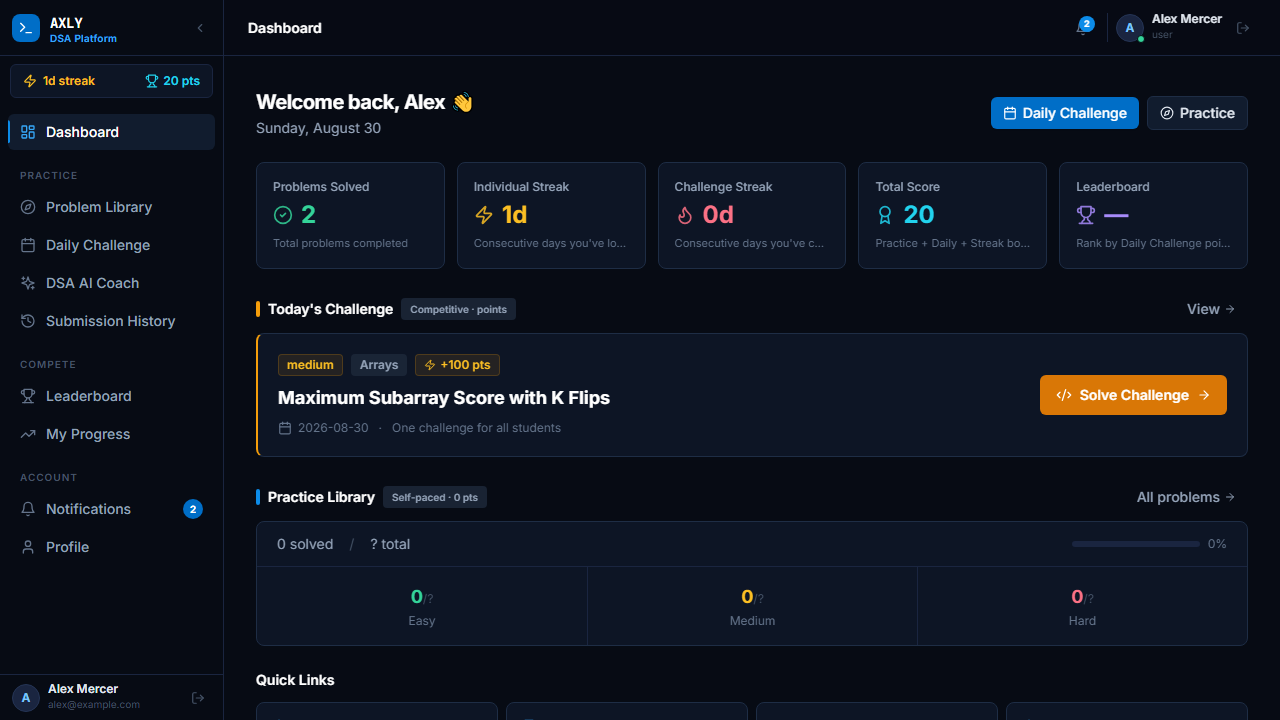
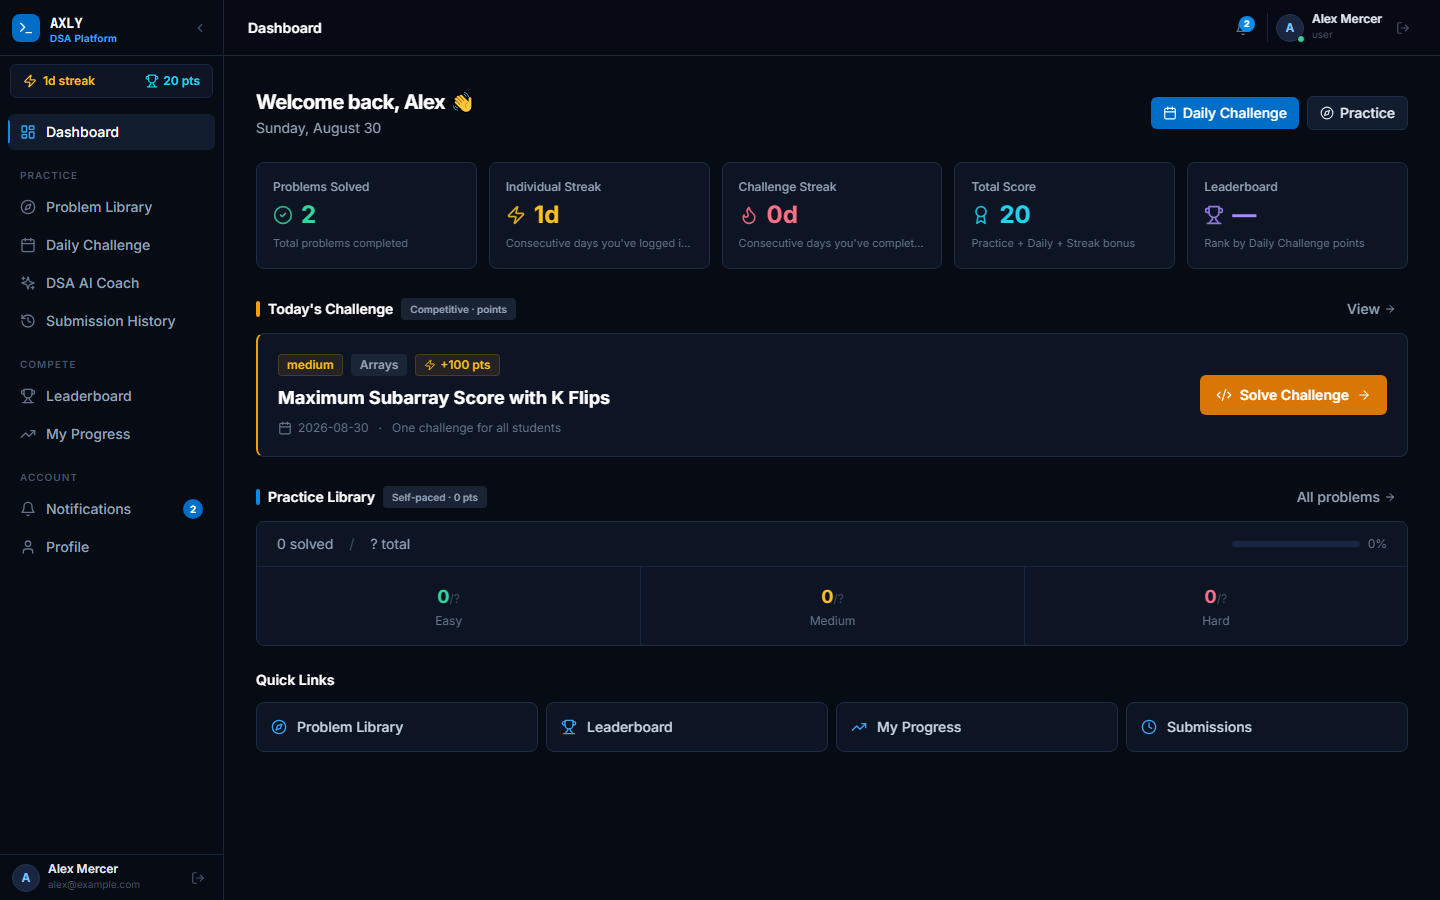
docs: production-ready README + UI screenshots

diff --git a/tests/e2e/capture_screenshots.spec.js b/tests/e2e/capture_screenshots.spec.js
@@ -22,89 +22,91 @@ test.describe('Take README Screenshots', () => {
     }, body.token);
   }
 
-  test('Capture Dashboard', async ({ page }) => {
+  async function loginAsAdmin(page) {
+    const res = await page.request.post('http://localhost:5000/api/v1/auth/dev-login', {
+      data: { email: 'admin@axly.in', role: 'admin' }
+    });
+    const body = await res.json();
+    await page.goto('/');
+    await page.evaluate((token) => {
+      localStorage.setItem('axly_auth_token', token);
+    }, body.token);
+  }
+
+  test.use({ viewport: { width: 1440, height: 900 } });
+
+  test('Capture Landing/Login Page', async ({ page }) => {
+    await page.goto('/login');
+    await page.waitForLoadState('networkidle');
+    await page.waitForTimeout(1000);
+    await page.screenshot({ path: path.join(screenshotsDir, 'landing.png') });
+  });
+
+  test('Capture Learner Dashboard', async ({ page }) => {
     await loginAsStudent(page);
     await page.goto('/');
     await page.waitForLoadState('networkidle');
-    await page.waitForTimeout(1000); 
+    await page.waitForTimeout(1000);
     await page.screenshot({ path: path.join(screenshotsDir, 'dashboard.png') });
   });
 
-  test('Capture Practice Library', async ({ page }) => {
-    await loginAsStudent(page);
-    await page.goto('/');
-    await page.click('text=Practice');
-    await page.waitForLoadState('networkidle');
-    await page.waitForTimeout(1000);
-    await page.screenshot({ path: path.join(screenshotsDir, 'practice.png') });
-  });
-
-  test('Capture Problem Workspace + AI', async ({ page }) => {
+  test('Capture Question Bank (Practice List)', async ({ page }) => {
     await loginAsStudent(page);
     await page.goto('/');
     await page.click('text=Practice');
     await page.waitForLoadState('networkidle');
     await page.waitForTimeout(1000);
     
-    // Click the first problem card button
-    const firstProblemBtn = page.locator('.practice-card button').first();
-    await firstProblemBtn.click();
-    
-    await page.waitForLoadState('networkidle');
-    await page.waitForTimeout(2000); 
-    
-    // Open AI Coach Panel if not already visible/active
-    try {
-      await page.click('text=DSA AI Coach');
-      await page.waitForTimeout(1000);
-    } catch (e) {}
-
-    await page.screenshot({ path: path.join(screenshotsDir, 'dsa-ai.png') });
+    // Select a filter to make it visible
+    const difficultySelect = page.locator('.practice-filters select').nth(0);
+    if (await difficultySelect.count() > 0) {
+       await difficultySelect.selectOption('Medium');
+       await page.waitForTimeout(500);
+    }
+    await page.screenshot({ path: path.join(screenshotsDir, 'question-bank.png') });
   });
 
-  test('Capture Problem Workspace', async ({ page }) => {
+  test('Capture Question Detail (Code Editor)', async ({ page }) => {
     await loginAsStudent(page);
     await page.goto('/');
     await page.click('text=Practice');
     await page.waitForLoadState('networkidle');
-    
-    const firstProblemBtn = page.locator('.practice-card button').first();
-    await firstProblemBtn.click();
-    
-    await page.waitForLoadState('networkidle');
-    await page.waitForTimeout(2000); 
-
-    await page.screenshot({ path: path.join(screenshotsDir, 'problem-workspace.png') });
-  });
-
-  test('Capture Daily Challenge', async ({ page }) => {
-    await loginAsStudent(page);
-    await page.goto('/');
-    await page.click('text=Daily Challenge');
-    await page.waitForLoadState('networkidle');
     await page.waitForTimeout(1000);
     
-    await page.screenshot({ path: path.join(screenshotsDir, 'daily-challenge.png') });
+    const firstProblemRow = page.locator('tbody tr').first();
+    await firstProblemRow.click();
+    
+    await page.waitForLoadState('networkidle');
+    await page.waitForTimeout(2000); // Let workspace load
+    
+    await page.screenshot({ path: path.join(screenshotsDir, 'code-editor.png') });
   });
 
-  test('Capture Progress', async ({ page }) => {
+  test('Capture Submission History', async ({ page }) => {
     await loginAsStudent(page);
     await page.goto('/');
-    await page.click('text=Progress');
+    // Check if there is a nav item or direct URL to history
+    await page.click('text=History').catch(() => page.goto('/submissions'));
+    // Wait for network requests to settle
     await page.waitForLoadState('networkidle');
     await page.waitForTimeout(1000);
-    
-    await page.screenshot({ path: path.join(screenshotsDir, 'progress.png') });
+    await page.screenshot({ path: path.join(screenshotsDir, 'submission-history.png') });
   });
 
-  test('Capture Mobile Dashboard', async ({ page }) => {
-    await page.setViewportSize({ width: 390, height: 844 });
-    await loginAsStudent(page);
+  test('Capture Admin Dashboard', async ({ page }) => {
+    await loginAsAdmin(page);
     await page.goto('/');
     await page.waitForLoadState('networkidle');
     await page.waitForTimeout(1000);
-    
-    await page.screenshot({ path: path.join(screenshotsDir, 'mobile.png') });
+    await page.screenshot({ path: path.join(screenshotsDir, 'admin-dashboard.png') });
   });
 
+  test('Capture Admin Question Management', async ({ page }) => {
+    await loginAsAdmin(page);
+    await page.goto('/');
+    await page.click('text=Questions').catch(() => page.goto('/admin/questions'));
+    await page.waitForLoadState('networkidle');
+    await page.waitForTimeout(1000);
+    await page.screenshot({ path: path.join(screenshotsDir, 'admin-questions.png') });
+  });
 });

diff --git a/README.md b/README.md
@@ -2,46 +2,47 @@
 
 # Axly DSA Tracker
 
-**Production-oriented DSA learning platform combining structured practice, competitive Daily Challenges, and AI coaching.**
+**Production-oriented DSA learning platform combining structured practice, competitive Daily Challenges, and deterministic-first AI coaching.**
 
 [![Tests](https://img.shields.io/badge/tests-306%20passed-brightgreen?style=flat-square)](#-testing)
-[![Languages](https://img.shields.io/badge/languages-JS%20%7C%20Python%20%7C%20TS%20%7C%20Java%20%7C%20C%20%7C%20C++-blue?style=flat-square)](#-code-execution)
-[![Stack](https://img.shields.io/badge/stack-Node.js%20%7C%20React%20%7C%20PostgreSQL-informational?style=flat-square)](#-technology-stack)
+[![Languages](https://img.shields.io/badge/languages-JS%20%7C%20Python%20%7C%20TS%20%7C%20Java%20%7C%20C%20%7C%20C++-blue?style=flat-square)](#-secure-code-runner)
+[![Stack](https://img.shields.io/badge/stack-Node.js%20%7C%20React%20%7C%20PostgreSQL-informational?style=flat-square)](#-architecture--database-status)
 
 **Production:** `https://dsatracker.axly.in`  
-**Repository:** `https://github.com/Ravikiran9988/axly-dsa-tracker`
+**Repository:** `https://github.com/Ravikiran9988/axly-dsa-tracker`  
+**License:** [MIT](LICENSE)
 
 </div>
 
 ---
 
-## 📸 Product Preview
+## 📸 UI Preview
 
 <div align="center">
 
-### Dashboard & Daily Challenge Widget
-<img src="docs/screenshots/dashboard.png" width="600" alt="Dashboard" />
+### Learner Dashboard
+<img src="docs/screenshots/dashboard.png" width="800" alt="Dashboard" />
 
-### 80-Problem Practice Library
-<img src="docs/screenshots/practice.png" width="600" alt="Practice" />
+### Problem Workspace & Code Editor
+<img src="docs/screenshots/code-editor.png" width="800" alt="Code Editor" />
 
-### Problem Workspace + AI Coach
-<img src="docs/screenshots/dsa-ai.png" width="600" alt="DSA AI" />
-
-### Competitive Daily Challenge
-<img src="docs/screenshots/daily-challenge.png" width="600" alt="Daily Challenge" />
-
-### Progress Analytics
-<img src="docs/screenshots/progress.png" width="600" alt="Progress" />
-
-### Mobile Responsive Design
-<img src="docs/screenshots/mobile.png" width="250" alt="Mobile" />
+### Question Bank & Filters
+<img src="docs/screenshots/question-bank.png" width="800" alt="Question Bank" />
 
 </div>
 
 ---
 
-## 🚀 Quick Start
+## 🚀 Prerequisites
+
+Before starting, ensure you have the following installed:
+1. **Node.js**: v18 or higher (required for the backend and modern React/Vite frontend).
+2. **Docker**: Required for the Secure Code Runner (to execute user submissions in isolated sandboxes).
+3. **Supabase Project**: A Postgres database is required before filling in production environment variables.
+
+---
+
+## ⚙ Quick Start
 
 ### 1. Clone & Install
 ```bash
@@ -60,8 +61,12 @@ PORT=5000
 JWT_SECRET=your_secret_key
 FRONTEND_URL=http://localhost:5173
 
+# Database Connection (Supabase/Postgres)
+DATABASE_URL=your_supabase_postgres_url
+
 # Groq Multi-Key Setup for AI
 GROQ_API_KEY_1=your_first_groq_key
+GROQ_API_KEY_2=your_second_groq_key
 ```
 
 ### 3. Setup & Run
@@ -77,26 +82,86 @@ npm run dev
 
 ---
 
-## 🛠 Core Features
+## 🏗 Architecture & Database Status
 
-- **Practice Library**: 80 curated DSA problems across 8 topics (Arrays, Trees, DP, etc).
-- **Daily Challenge**: UTC-synchronized daily competitive problem with global leaderboards.
-- **DSA AI Coach**: Context-aware AI tutor with deterministic Knowledge Graph checking and Groq API failovers.
-- **Code Execution**: Secure sandboxed subprocesses for JS, Python, TS, Java, C, and C++.
-
-## 🏗 Technology Stack
-
-- **Frontend**: React 18, Vite, TailwindCSS
-- **Backend**: Node.js, Express, SQLite/PostgreSQL
-- **AI Engine**: Groq + Custom Context Router
-- **Testing**: Jest (306 passing backend tests) + Playwright (E2E)
+The application uses a dual-driver database strategy to support both local development and scalable production:
+- **`repositoryFactory.js`**: Dynamically selects `SqliteRepository` (for lightweight local dev) or `PostgresRepository` (for production via Supabase) based on an env-driven `getDatabaseDriver()` call.
+- **Migration**: The `backend/scripts/migrate-postgres.js` script runs `initPostgresSchema` and `seedPostgresDatabase` for the Postgres pathway.
+- **Status**: SQLite remains the dev default, while Postgres/Supabase is the primary production target (migration in progress).
 
 ---
 
-## 🤝 Contributing
+## 🔐 Auth Flow
 
-1. Fork the Project
-2. Create your Feature Branch (`git checkout -b feature/AmazingFeature`)
-3. Commit your Changes (`git commit -m 'Add some AmazingFeature'`)
-4. Push to the Branch (`git push origin feature/AmazingFeature`)
-5. Open a Pull Request
+The platform implements a custom JWT-based authentication system:
+- **Stateless Sessions**: JWTs are signed securely on the backend and transmitted securely.
+- **Role-Based Access Control (RBAC)**: Enforces `admin` vs `user` boundaries.
+- **Dev Bypass**: A dedicated `dev-login` endpoint exists exclusively for local testing, completely disabled in production environments.
+
+---
+
+## 💻 Secure Code Runner
+
+User submissions are executed securely:
+- Supported languages: **JavaScript, Python, TypeScript, Java, C, C++**.
+- Executions run inside isolated Docker sandboxed subprocesses.
+- Strict CPU timeouts (e.g., 2000ms) and memory limits prevent malicious code or infinite loops from crashing the server.
+- The execution engine securely manages hidden test cases out of user reach.
+
+---
+
+## 📈 Progress Calculation
+
+Progress is strictly tracked on the backend:
+- The frontend never decides scoring or streak eligibility.
+- Submissions are evaluated against authoritative test suites.
+- Only successful `Daily Challenge` submissions within the active UTC window increment competitive points. Practice problem completions increment pure educational progression flags (Solved/In Progress/Not Started).
+
+---
+
+## 📜 Product Rules & Business Logic
+
+Core product rules enforced by the backend:
+- **Daily Challenges**: Run strictly on UTC, with a hard midnight-UTC submission cutoff.
+- **Streak Logic**: Maintained incrementally. Submissions must occur within consecutive 24-hour UTC windows. Missing a window resets the active streak.
+- **Leaderboards**: Ordered strictly by total competitive points, prioritizing earlier submissions as a tie-breaker.
+- **AI Duplicate Detection**: Problem duplicate detection uses cosine similarity applied to problem descriptions with a strict **0.85 threshold** to prevent repetitive generation.
+
+---
+
+## 📡 Major API Areas
+
+Axly's backend architecture is heavily modularized. Routes registered in `backend/src/app.js`:
+
+- `/api/v1/auth` - Authentication & Session handling
+- `/api/v1/users` - User profiles & settings
+- `/api/v1/questions` - Core question bank (Practice)
+- `/api/v1/practice` - Practice progress and state
+- `/api/v1/daily-challenges` - UTC-synced challenges
+- `/api/v1/submissions` - Code submission & history
+- `/api/v1/code` - Secure execution endpoints
+- `/api/v1/progress` - User progress calculation
+- `/api/v1/analytics` - System & user-level analytics
+- `/api/v1/recommendations` - Knowledge-graph topic suggestions
+- `/api/v1/dsa-ai` - 4-phase AI Coach endpoints
+- `/api/v1/ai-questions` - AI generation context
+- `/api/v1/cohorts` - Grouping & cohort assignments
+- `/api/v1/assignments` - Instructor-assigned problems
+- `/api/v1/notifications` - Realtime and unread alert system
+- `/api/v1/admin/audit-logs` - System-wide audit trails
+
+---
+
+## 👑 Admin Experience
+
+Administrators have access to a full suite of moderation and configuration tools.
+
+<div align="center">
+
+### Admin Dashboard
+<img src="docs/screenshots/admin-dashboard.png" width="800" alt="Admin Dashboard" />
+
+### Question Management
+<img src="docs/screenshots/admin-questions.png" width="800" alt="Admin Questions" />
+
+</div>
